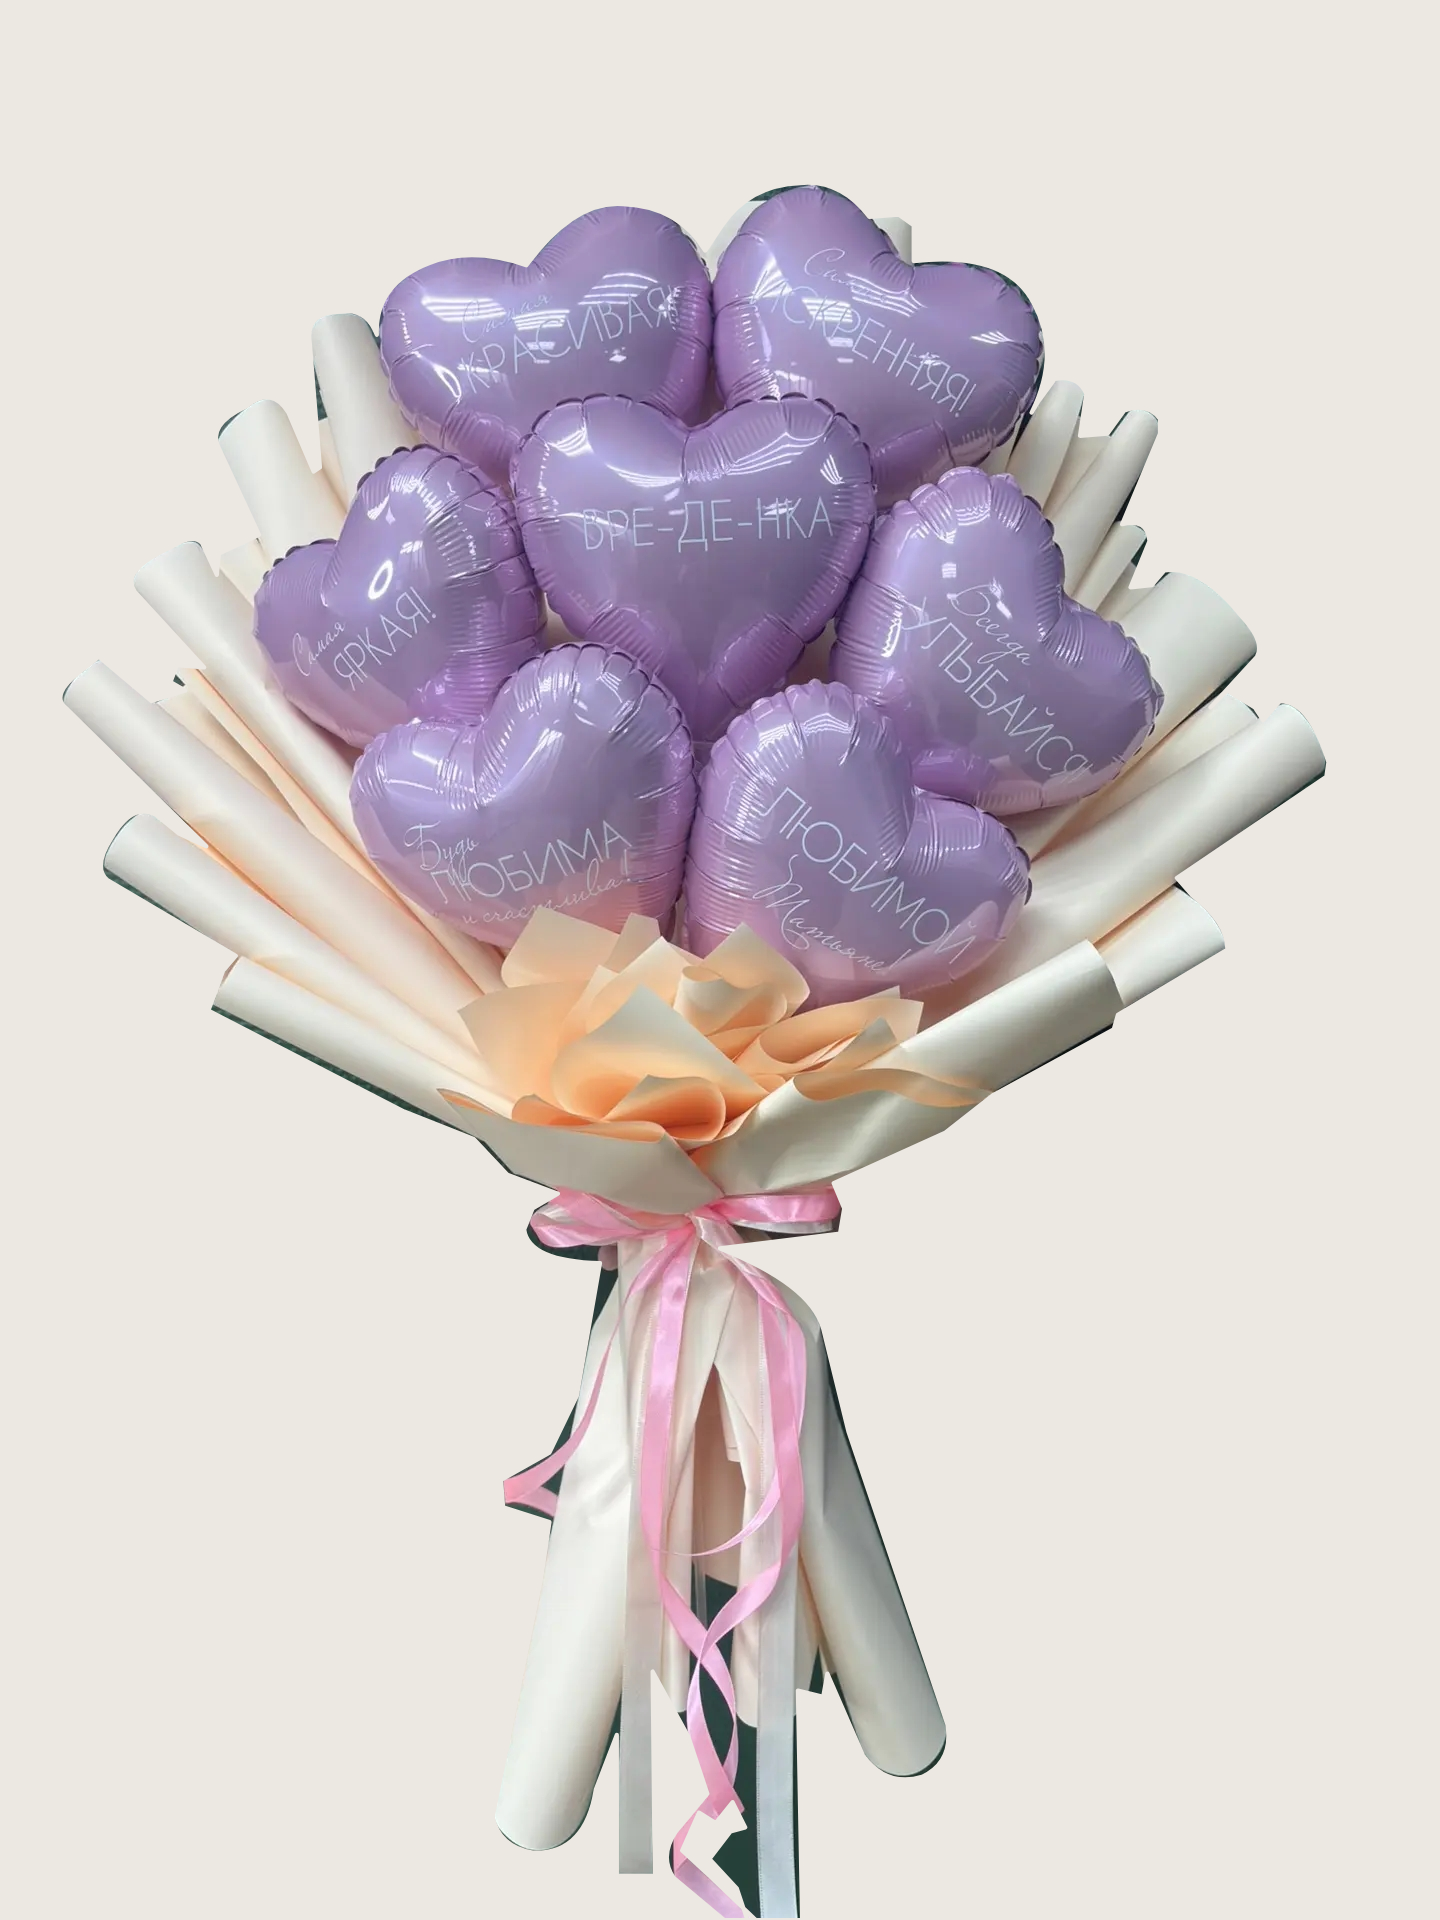
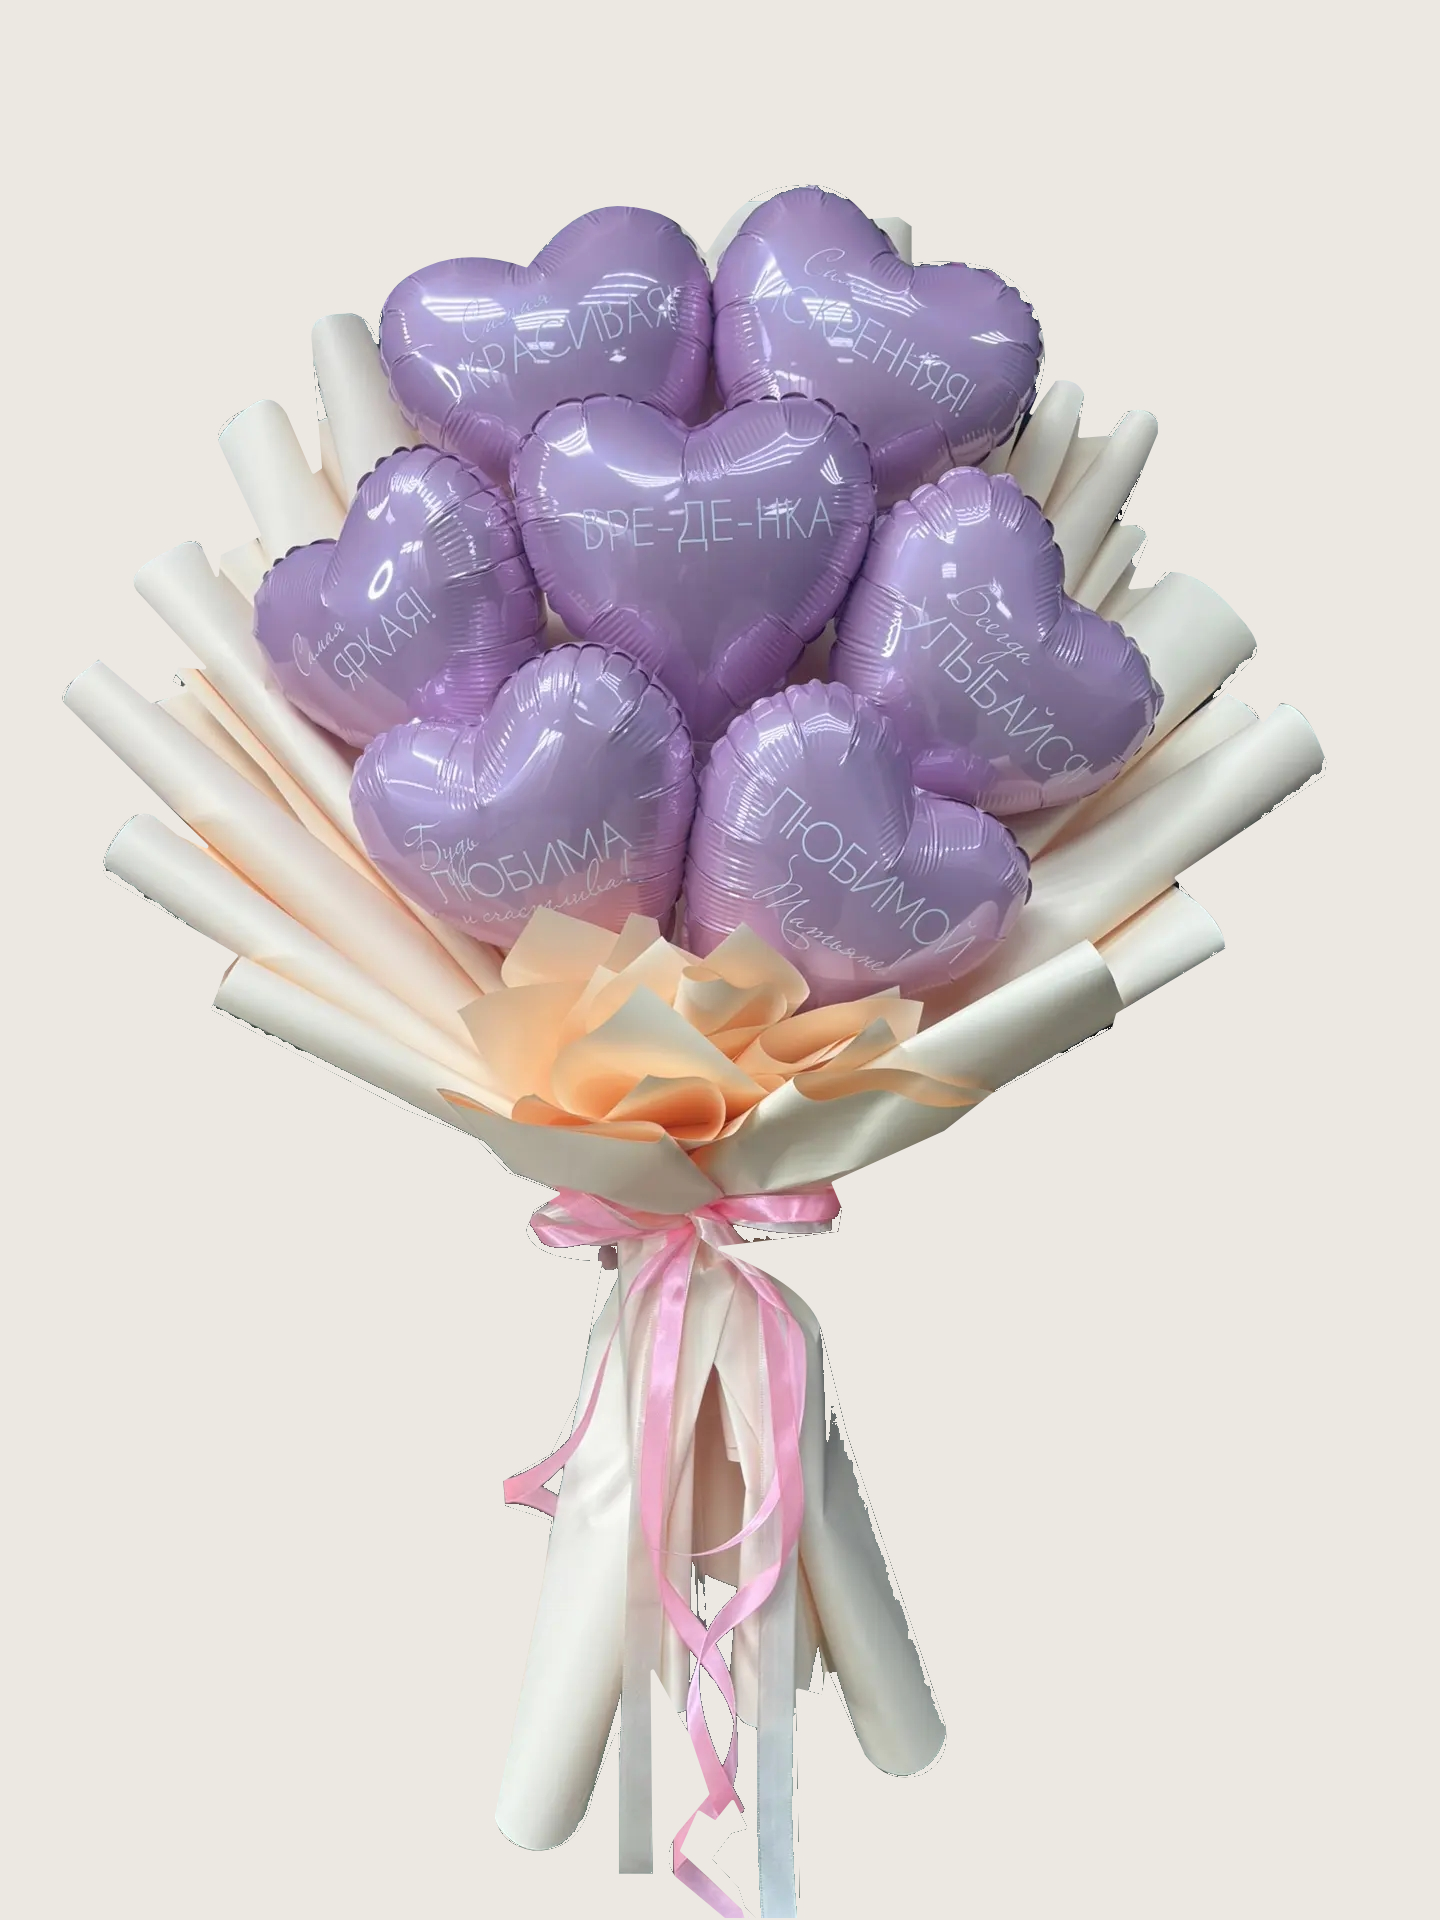
Clean residual backgrounds from four bouquet photographs

diff --git a/index.html b/index.html
@@ -1,4 +1,4 @@
-<!doctype html><html lang="ru"><head><meta charset="utf-8"><meta name="viewport" content="width=device-width,initial-scale=1"><meta name="robots" content="noindex,nofollow"><title>За цветком – цветы и шары в Перми</title><meta name="description" content="Цветы, воздушные шары и оформление праздников в Перми. Соберём подарок под ваш повод и бюджет. Заказ с помощью флориста."><link rel="stylesheet" href="styles.css?v=075b470500b9"><link rel="stylesheet" href="refinement.css?v=895ede93e3e9"><script src="products-data.js?v=bf7c42bb095b" defer></script><script src="daily-bouquets.js?v=9f42afe33c86" defer></script><script src="balloons-data.js?v=b8d35f683860" defer></script><script src="app.js?v=6f26a674e375" defer></script><link rel="stylesheet" href="details.css?v=676635baad1b"><script src="refinement.js?v=0740fcb4a405" defer></script><script src="details.js?v=f239bc70c3e7" defer></script><link rel="stylesheet" href="catalog-live.css?v=6f77fdc89923"><script src="catalog-live.js?v=3da31a9e2d62" defer></script><link rel="stylesheet" href="catalog-polish.css?v=676943583ac2"><script src="catalog-polish.js?v=d9a32a43bc64" defer></script></head><body>
+<!doctype html><html lang="ru"><head><meta charset="utf-8"><meta name="viewport" content="width=device-width,initial-scale=1"><meta name="robots" content="noindex,nofollow"><title>За цветком – цветы и шары в Перми</title><meta name="description" content="Цветы, воздушные шары и оформление праздников в Перми. Соберём подарок под ваш повод и бюджет. Заказ с помощью флориста."><link rel="stylesheet" href="styles.css?v=075b470500b9"><link rel="stylesheet" href="refinement.css?v=895ede93e3e9"><script src="products-data.js?v=bf7c42bb095b" defer></script><script src="daily-bouquets.js?v=9f42afe33c86" defer></script><script src="balloons-data.js?v=ff93a41d5f11" defer></script><script src="app.js?v=6f26a674e375" defer></script><link rel="stylesheet" href="details.css?v=676635baad1b"><script src="refinement.js?v=0740fcb4a405" defer></script><script src="details.js?v=f239bc70c3e7" defer></script><link rel="stylesheet" href="catalog-live.css?v=6f77fdc89923"><script src="catalog-live.js?v=3da31a9e2d62" defer></script><link rel="stylesheet" href="catalog-polish.css?v=676943583ac2"><script src="catalog-polish.js?v=d9a32a43bc64" defer></script></head><body>
 <div class="ticker"><div id="ticker"></div></div><header class="wrap"><div class="topbar"><button id="headerBurger" aria-label="Открыть меню" aria-expanded="false" aria-controls="mobileNavigation"><svg viewBox="0 0 24 24" aria-hidden="true"><path d="M3 6h18M3 12h18M3 18h18"/></svg></button><nav><a href="#about">О нас</a><a href="#care">Гарантия</a><a href="#delivery">Доставка и оплата</a><a href="#contacts">Контакты</a><a href="#contacts">Адрес</a><span class="header-hours">10:00–22:00 ежедневно</span></nav><a class="logo-space" href="#" aria-label="За цветком – главная"><img src="logo.png" alt="За цветком" width="145" height="145"></a><div class="socials"><button data-social="MAX">Макс</button><button data-social="VK">ВК</button></div><button class="outline" data-form="Помощь флориста">Связаться с флористом </button></div><div class="navrow"><button id="menuButton" class="primary" aria-expanded="false">✿ &nbsp; Выбрать подарок &nbsp;⌄</button><div class="search"><input id="search" type="search" placeholder="Цветок, подарок или повод" aria-label="Поиск по каталогу"><button id="searchAction" type="button" aria-label="Перейти к результатам поиска"></button></div><button id="favoritesButton" aria-label="Открыть избранное"><svg viewBox="0 0 24 24" aria-hidden="true"><path d="M20.8 4.6a5.5 5.5 0 0 0-7.8 0L12 5.7l-1.1-1.1a5.5 5.5 0 0 0-7.8 7.8L12 21l8.8-8.6a5.5 5.5 0 0 0 0-7.8Z"/></svg><span id="favCount">0</span></button><button id="cartButton" aria-label="Открыть корзину"><svg viewBox="0 0 24 24" aria-hidden="true"><path d="M5 7h14l1 14H4L5 7Z"/><path d="M8 8V6a4 4 0 0 1 8 0v2"/></svg><span id="cartTotal">0 ₽</span></button></div><nav id="mobileNavigation" aria-label="Меню сайта" hidden></nav><nav id="mega" aria-label="Выбрать подарок" hidden></nav></header>
 <main class="wrap"><section class="hero"><div class="hero-copy"><span class="eyebrow">ЦВЕТОЧНАЯ МАСТЕРСКАЯ · ПЕРМЬ</span><h1>Цветы и шары<br>под ваш повод<br>и бюджет<span class="script">с теплом к вам</span></h1><p>Соберём подарок целиком – цветы,<br>воздушные шары и оформление</p><div class="actions"><a class="primary" href="#catalog">Выбрать букет </a><button class="outline" id="quizStart">Подобрать подарок </button></div></div><div class="hero-photo photo"><span class="camera"></span><span class="photo-label">Место для вашей фотографии</span><span class="script">повод быть ближе</span></div></section>
 <div class="divider"><span>❧</span></div><section id="holidays"><div class="section-heading"><h2>Особенные даты –<br>особенные цветы</h2><span class="script">предвкушение радости</span></div><div id="holidayGrid" class="holiday-grid" tabindex="0" aria-label="Ближайшие праздники"></div><div class="carousel-controls"><button class="carousel-arrow" data-slide="holidayGrid" data-dir="-1" aria-label="Предыдущие праздники">←</button><span id="holidayPosition" aria-live="polite"></span><button class="carousel-arrow" data-slide="holidayGrid" data-dir="1" aria-label="Следующие праздники">→</button></div><div class="budget-row"><div><h3>Чем раньше заказываете, тем выгоднее</h3><p>Согласуем состав и зафиксируем цену при подтверждении предзаказа и предоплате.</p></div><button class="primary" data-form="Предзаказ по фиксированной цене">Зафиксировать цену </button></div></section><section id="directions"><div class="section-heading"><h2>Что хотите подарить?</h2><span class="eyebrow">ОДИН ПОВОД – МНОГО КРАСИВЫХ ИДЕЙ</span></div><div class="directions" id="directionGrid"></div></section>

diff --git a/balloons-data.js b/balloons-data.js
@@ -22,7 +22,7 @@ window.BALLOON_BOUQUETS=[
  id:'balloon-bouquet-'+slug,slug:'balloon-bouquet-'+slug,name,price,description,
  category:'Букеты из шаров',madeToOrder:true,stock:null,tags:'букет из шаров',
  note:'Все букеты под заказ – в наличии их нет. Цвет уточняйте по наличию. Надписи можно любые. Упаковка – по наличию; по вашему желанию её можно заменить на другую.',
- images:Array.from({length:count},(_,i)=>'assets/balloon-bouquets/'+slug+'-'+(i+1)+'.png?v=solid-ece8e2')
+ images:Array.from({length:count},(_,i)=>'assets/balloon-bouquets/'+slug+'-'+(i+1)+'.png?v=solid-ece8e2-edge2')
 }));
 // Each photograph retains the price of its own installation, even within a venue carousel.
 window.BUSINESS_BALLOONS=[
